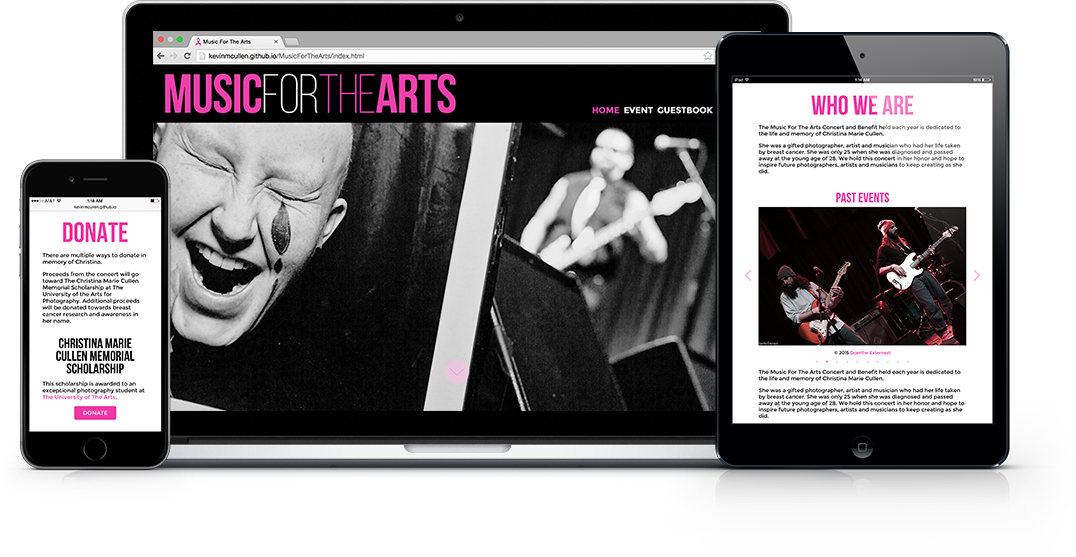
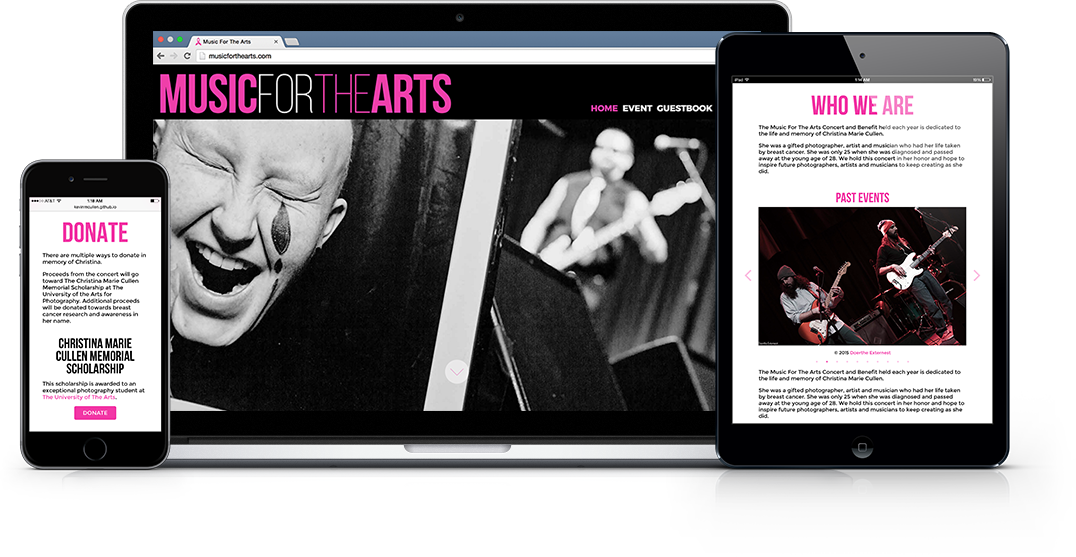
web update 1

Changed region(s): [[0.1227, 0.0305, 0.6747, 0.2442], [0.552, 0.1831, 0.6747, 0.2136], [0.3987, 0.6409, 0.46, 0.702]]

diff --git a/web.html b/web.html
@@ -48,11 +48,12 @@
         <div class="main-content">
           <div class="work webDesign">
             <div class="webHero MFTA-bg">
-              <a href="http://kevinmcullen.github.io/MusicForTheArts"><img src="images/web/MFTAmockup-2.png"></a>
+              <a href="http://musicforthearts.com"><img src="images/web/MFTAmockup-2.png"></a>
             </div>
             <div class="container">
-              <a href="http://kevinmcullen.github.io/MusicForTheArts"><h4>Music For The Arts</h4></a>
-              <p>I rebuilt and redesigned <a href="http://kevinmcullen.github.io/MusicForTheArts">musicforthearts.com</a>, a charity event benefitting breast cancer research and an arts scholarship at The University for the Arts in Philadelphia, Pa.</p>
+              <label>PROJECT</label>
+              <a href="http://musicforthearts.com"><h4>Music For The Arts</h4></a>
+              <p>I rebuilt and redesigned <a href="http://musicforthearts.com">musicforthearts.com</a>, a charity event benefitting breast cancer research and an arts scholarship at The University for the Arts in Philadelphia, Pa.</p>
               <p>The site is fully responsive and provides a modern showcase for musicians and artists, as intended by the event's founder.</p>
             </div>
             
